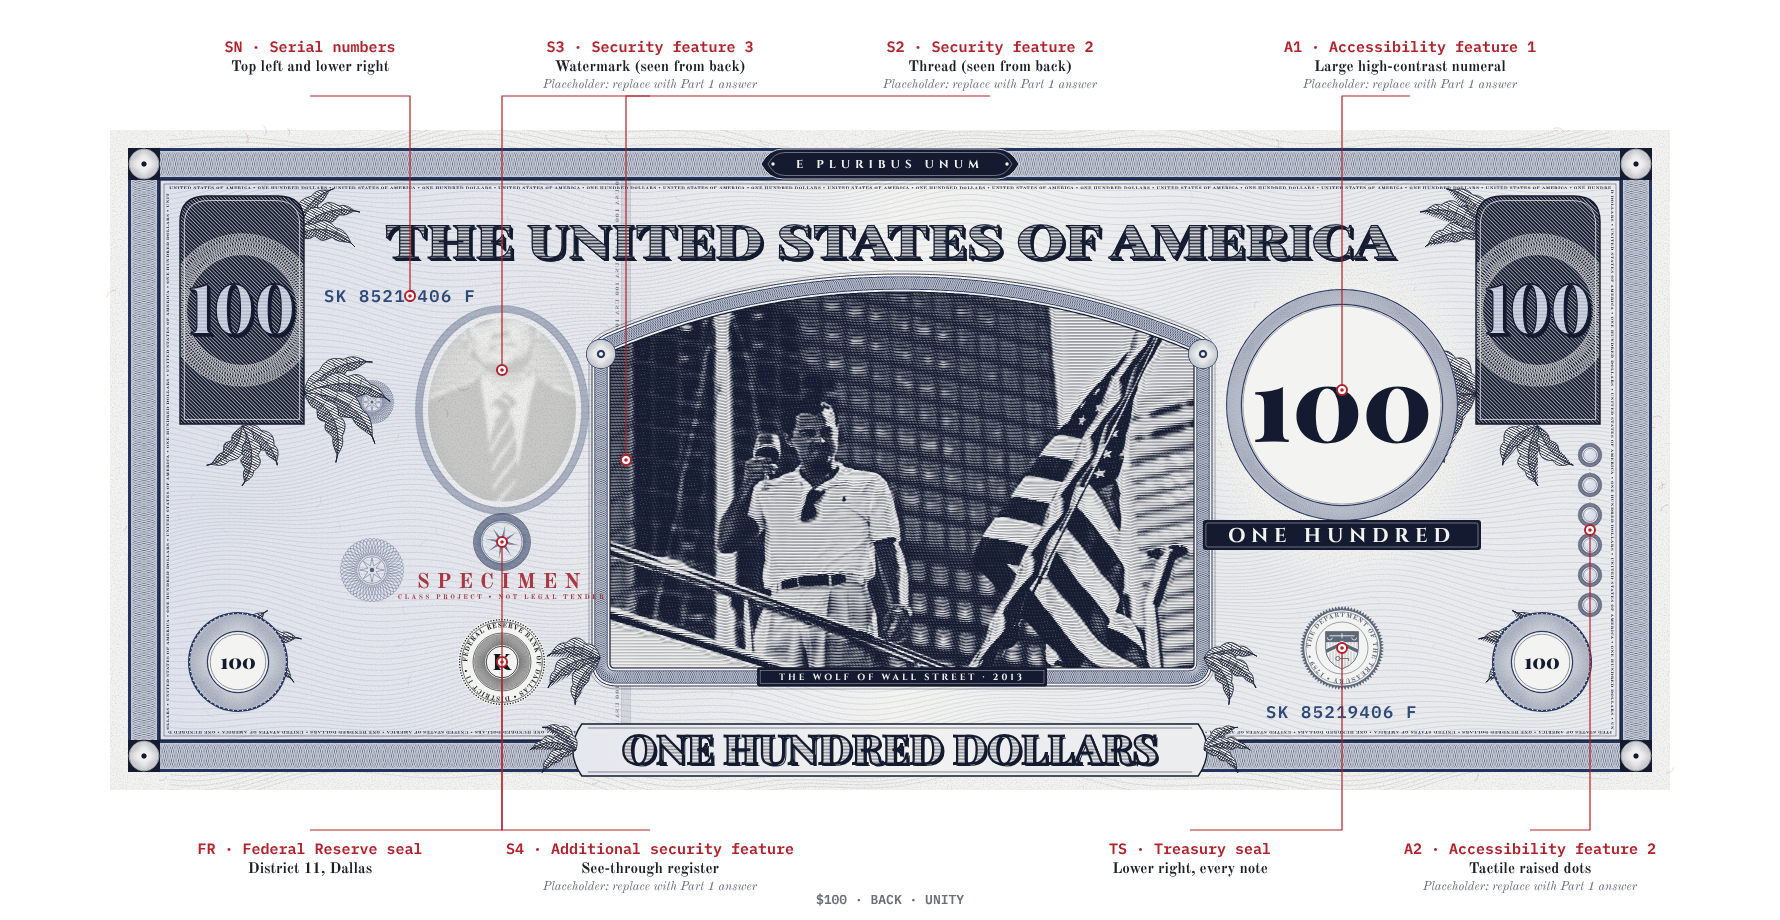
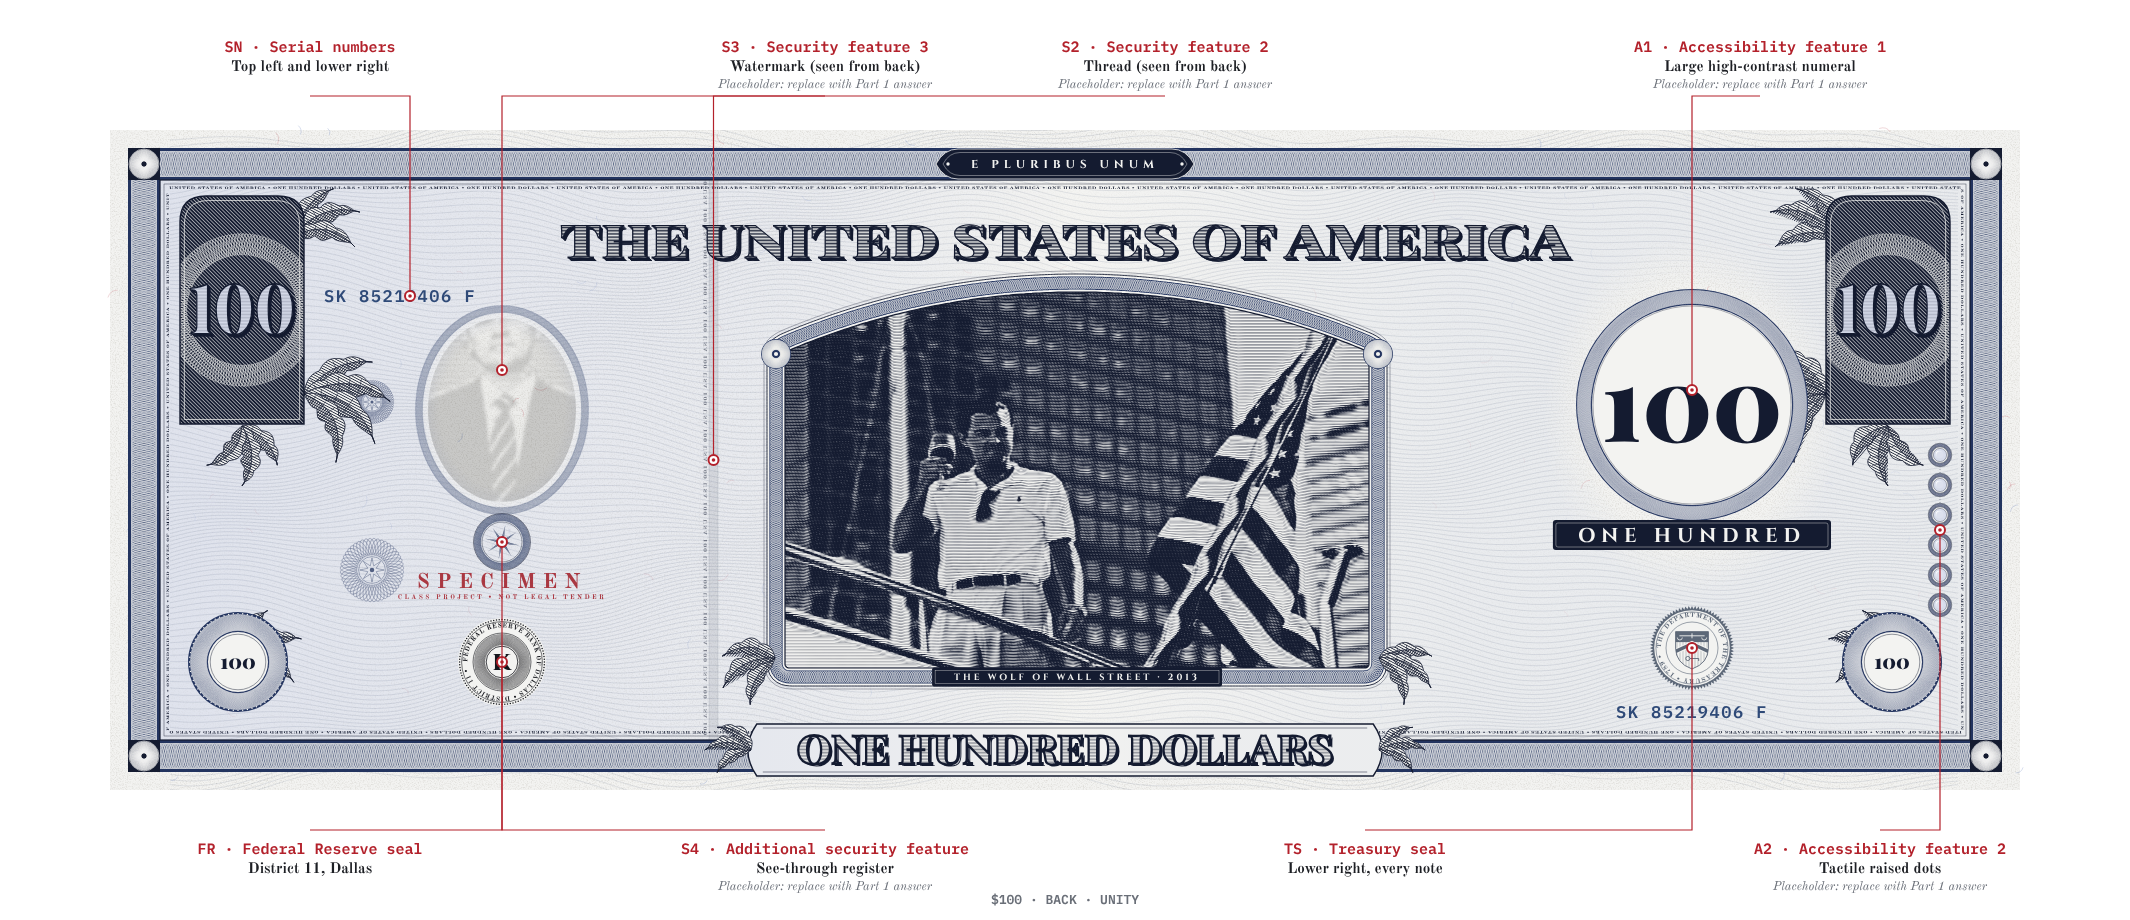
Vary note length by denomination: 156 mm for $1 up to 191 mm for $100 in 7 mm steps
Claude-Session: https://claude.ai/code/session_015KBLhp8b1QN2JqUJfMzhqz

diff --git a/generator/design/notes.js b/generator/design/notes.js
@@ -44,63 +44,67 @@ const G = {
   head: 128,
 };
 const mx = x => W - x;
+// Lengths follow the Australian scheme cited in Part 1: 156 mm for $1, then +7 mm per step (191 mm for $100).
+const ORDER = [1, 5, 10, 20, 50, 100];
+const noteWidth = v => BASE_W + 70 * ORDER.indexOf(v);
+// Extra length is shared out between the open spaces: centre items move by half of it, right-hand items by all of it.
+const shift = (k, inner) => k ? `<g transform="translate(${f(k)} 0)">${inner}</g>` : inner;
+const frontThread = n => n.thread + (W - BASE_W) * (n.thread < 780 ? .25 : .75);
 const svgOpen = () => `<svg xmlns="http://www.w3.org/2000/svg" viewBox="0 0 ${W} ${H}" width="${W}" height="${H}">`;
 function headline(n, id) { return slabText(n, id, "THE UNITED STATES OF AMERICA", W / 2, G.head, 46, 1010, { depth: 3 }); }
 
 function front(n, img, memImg) {
-  const id = "f" + n.v, s = String(n.v);
+  const id = "f" + n.v, s = String(n.v), d = W - BASE_W;
   let o = svgOpen() + defs(n, id);
   o += paperLayer(n, id);
-  o += backgroundLayer(n, id, [{ type: "ellipse", ...G.wm }]);
-  o += securityThread(n, n.thread, false);
+  o += backgroundLayer(n, id, [{ type: "ellipse", ...G.wm, cx: G.wm.cx + d }]);
+  o += securityThread(n, frontThread(n), false);
   o += border(n, id, "FEDERAL RESERVE NOTE", null);
   o += headline(n, id);
   o += plainText("THIS NOTE IS LEGAL TENDER", G.mem.cx, 162, `700 9px ${FONT.small}`, n.plate, { ls: 1.8 });
   o += plainText("FOR ALL DEBTS, PUBLIC AND PRIVATE", G.mem.cx, 174, `700 9px ${FONT.small}`, n.plate, { ls: 1.8 });
   o += memorial(n, id, G.mem.cx, G.mem.cy, G.mem.r, memImg);
-  o += portraitOval(n, id, G.oval.cx, G.oval.cy, G.oval.rx, G.oval.ry, img, n.front.caption);
-  o += plainText("SERIES", 1036, 506, `700 8px ${FONT.small}`, n.plate, { ls: 1.5 }) + plainText("2026", 1036, 517, `700 10px ${FONT.small}`, n.plate, { ls: 1.5 });
-  o += signature(n, G.mem.cx, 518, ...SIGS[0]) + signature(n, G.wm.cx, 518, ...SIGS[1]);
+  o += shift(d / 2, portraitOval(n, id, G.oval.cx, G.oval.cy, G.oval.rx, G.oval.ry, img, n.front.caption));
+  o += signature(n, G.mem.cx, 518, ...SIGS[0]);
+  o += shift(d, plainText("SERIES", 1036, 506, `700 8px ${FONT.small}`, n.plate, { ls: 1.5 }) + plainText("2026", 1036, 517, `700 10px ${FONT.small}`, n.plate, { ls: 1.5 }) + signature(n, G.wm.cx, 518, ...SIGS[1]));
   o += tactileStrip(n, id, 80, 330, 470);
-  o += watermarkSurround(n, G.wm.cx, G.wm.cy, G.wm.rx, G.wm.ry);
-  o += watermarkWindow(n, id, G.wm.cx, G.wm.cy, G.wm.rx, G.wm.ry, img, false);
-  o += register(n, G.reg.cx, G.reg.cy, G.reg.r, false);
+  o += shift(d, watermarkSurround(n, G.wm.cx, G.wm.cy, G.wm.rx, G.wm.ry) + watermarkWindow(n, id, G.wm.cx, G.wm.cy, G.wm.rx, G.wm.ry, img, false) + register(n, G.reg.cx, G.reg.cy, G.reg.r, false));
   o += plainText(n.check, 214, 210, `700 11px ${FONT.small}`, n.plate, { anchor: "start" });
-  o += plainText(n.plateNo, 1346, 210, `700 11px ${FONT.small}`, n.plate, { anchor: "end" });
+  o += shift(d, plainText(n.plateNo, 1346, 210, `700 11px ${FONT.small}`, n.plate, { anchor: "end" }));
   o += tallCounter(n, id, 70, 66, 124, 228, false) + tallCounter(n, id, W - 194, 66, 124, 228, true);
   o += roundCounter(n, id, 128, H - 128, 50, false);
-  o += fillers(n, [[562, 232, 34], [998, 232, 34], [1318, 470, 46], [272, 560, 18], [998, 470, 30], [562, 470, 30]]);
-  o += oviNumeral(n, id, 1488, 600, s.length === 3 ? 92 : 118);
+  o += fillers(n, [[272, 560, 18]]) + shift(d / 4, fillers(n, [[562, 232, 34], [562, 470, 30]]));
+  o += shift(d * .75, fillers(n, [[998, 232, 34], [998, 470, 30]])) + shift(d, fillers(n, [[1318, 470, 46]]));
+  o += shift(d, oviNumeral(n, id, 1488, 600, s.length === 3 ? 92 : 118));
   o += banner(n, id, n.words);
-  o += specimen(n, G.wm.cx, 576);
+  o += shift(d, specimen(n, G.wm.cx, 576));
   return o + "</svg>";
 }
 
 function back(n, img, frontImg, memImg) {
-  const id = "b" + n.v, s = String(n.v);
+  const id = "b" + n.v, s = String(n.v), d = W - BASE_W;
   const v = G.vig;
   const panel = { x: 1132, y: 150, w: 200, h: 290 };
-  const wmx = mx(G.wm.cx);
+  const wmx = BASE_W - G.wm.cx;   // the front's watermark (moved right by d) lands here, seen through the paper
   let o = svgOpen() + defs(n, id);
   o += paperLayer(n, id);
-  o += backgroundLayer(n, id, [{ type: "ellipse", ...G.wm, cx: wmx }, { type: "rect", x: panel.x - 20, y: panel.y - 10, w: panel.w + 40, h: panel.h }]);
-  o += securityThread(n, mx(n.thread), true);
+  o += backgroundLayer(n, id, [{ type: "ellipse", ...G.wm, cx: wmx }, { type: "rect", x: panel.x - 20 + d, y: panel.y - 10, w: panel.w + 40, h: panel.h }]);
+  o += securityThread(n, mx(frontThread(n)), true);
   o += border(n, id, "E PLURIBUS UNUM", null);
   o += headline(n, id);
-  o += vignetteFrame(n, id, v, img, n.back.caption, n.back.overlay ? n.back.overlay(n, v) : "");
-  o += spray(n, id, [v.x0 - 10, v.y1 - 10], 150, 60, 3, 32, 12, true) + spray(n, id, [v.x1 + 10, v.y1 - 10], 30, 60, 3, 32, 12);
-  o += knot(n, v.x0 - 9, v.ys + 2, 15) + knot(n, v.x1 + 9, v.ys + 2, 15);
+  o += shift(d / 2, vignetteFrame(n, id, v, img, n.back.caption, n.back.overlay ? n.back.overlay(n, v) : "")
+    + spray(n, id, [v.x0 - 10, v.y1 - 10], 150, 60, 3, 32, 12, true) + spray(n, id, [v.x1 + 10, v.y1 - 10], 30, 60, 3, 32, 12)
+    + knot(n, v.x0 - 9, v.ys + 2, 15) + knot(n, v.x1 + 9, v.ys + 2, 15));
   o += watermarkSurround(n, wmx, G.wm.cy, G.wm.rx, G.wm.ry);
   o += watermarkWindow(n, id, wmx, G.wm.cy, G.wm.rx, G.wm.ry, frontImg, true);
   o += register(n, wmx, G.reg.cy, G.reg.r, true);
   o += fillers(n, [[262, 440, 32], [262, 272, 22], [1232, 590, 0]].filter(p => p[2]));
   o += fedSeal(n, id, wmx, 532, 44);
   o += tallCounter(n, id, 70, 66, 124, 228, false) + tallCounter(n, id, W - 194, 66, 124, 228, true);
-  o += numeralPanel(n, id, panel, s, n.word1);
-  o += treasurySeal(n, id, panel.x + panel.w / 2, 518, 42);
+  o += shift(d, numeralPanel(n, id, panel, s, n.word1) + treasurySeal(n, id, panel.x + panel.w / 2, 518, 42)
+    + plainText(n.serial, panel.x + panel.w / 2, 588, `600 17px ${FONT.mono}`, n.serialInk || n.secondary, { ls: 1.5 }));
   o += tactileStrip(n, id, mx(80), 330, 470);
   o += plainText(n.serial, 214, 172, `600 17px ${FONT.mono}`, n.serialInk || n.secondary, { anchor: "start", ls: 1.5 });
-  o += plainText(n.serial, panel.x + panel.w / 2, 588, `600 17px ${FONT.mono}`, n.serialInk || n.secondary, { ls: 1.5 });
   o += roundCounter(n, id, 128, H - 128, 50, false) + roundCounter(n, id, W - 128, H - 128, 50, true);
   o += banner(n, id, n.words);
   o += specimen(n, wmx, 458);
@@ -113,7 +117,7 @@ const FEATURES = {
   front: n => [
     { code: "A1", title: "Accessibility feature 1", name: "Large high-contrast numerals", at: [132, 180], label: [200, "top"] },
     { code: "\u2605", title: "Memorial", name: "Twin Towers & One WTC", at: [392, 300], label: [540, "top"], fixed: true },
-    { code: "S2", title: "Security feature 2", name: "Security thread", at: [n.thread, 330], label: [880, "top"] },
+    { code: "S2", title: "Security feature 2", name: "Security thread", at: [frontThread(n), 330], label: [880, "top"], exact: true },
     { code: "S3", title: "Security feature 3", name: "Watermark window", at: [1168, 240], label: [1360, "top"] },
     { code: "A2", title: "Accessibility feature 2", name: "Tactile raised dots", at: [80, 400], label: [200, "bottom"] },
     { code: "\u2014", title: "Marking", name: "SPECIMEN \u00b7 class project", at: [1168, 576], label: [1000, "bottom"], fixed: true },
@@ -122,7 +126,7 @@ const FEATURES = {
   back: n => [
     { code: "SN", title: "Serial numbers", name: "Top left and lower right", at: [300, 166], label: [200, "top"], fixed: true },
     { code: "S3", title: "Security feature 3", name: "Watermark (seen from back)", at: [392, 240], label: [540, "top"] },
-    { code: "S2", title: "Security feature 2", name: "Thread (seen from back)", at: [mx(n.thread), 330], label: [880, "top"] },
+    { code: "S2", title: "Security feature 2", name: "Thread (seen from back)", at: [mx(frontThread(n)), 330], label: [880, "top"], exact: true },
     { code: "A1", title: "Accessibility feature 1", name: "Large high-contrast numeral", at: [1232, 260], label: [1300, "top"] },
     { code: "FR", title: "Federal Reserve seal", name: `District ${n.district}, ${n.city.toLowerCase().replace(/\b\w/g, c => c.toUpperCase())}`, at: [392, 532], label: [200, "bottom"], fixed: true },
     { code: "S4", title: "Additional security feature", name: "See-through register", at: [392, 412], label: [540, "bottom"] },
@@ -136,7 +140,9 @@ function annotated(n, side, noteSvg) {
   let o = `<svg xmlns="http://www.w3.org/2000/svg" viewBox="0 0 ${WW} ${HH}" width="${WW}" height="${HH}">
     <rect width="${WW}" height="${HH}" fill="#ffffff"/>
     <g transform="translate(${M.x} ${M.y})">${inner}</g>`;
-  for (const ft of FEATURES[side](n)) {
+  const d = W - BASE_W, X = x => x < 470 ? x : x > 1090 ? x + d : x + d / 2;
+  for (const raw of FEATURES[side](n)) {
+    const ft = { ...raw, at: [raw.exact ? raw.at[0] : X(raw.at[0]), raw.at[1]], label: [X(raw.label[0]), raw.label[1]] };
     const top = ft.label[1] === "top";
     const [ax, ay] = [ft.at[0] + M.x, ft.at[1] + M.y], lx = ft.label[0] + M.x, ly = top ? 52 : HH - 66;
     const ey = top ? ly + 44 : ly - 24;

diff --git a/generator/note.html b/generator/note.html
@@ -18,6 +18,7 @@ window.compose = async (v, side, imgs, annotate) => {
   await document.fonts.ready;
   for (const u of Object.values(imgs)) { const im = new Image(); im.src = u; await im.decode(); }
   const n = DENOMS[v];
+  W = noteWidth(v);
   const svg = side === "front" ? front(n, imgs.front, imgs.memorial) : back(n, imgs.back, imgs.front, imgs.memorial);
   document.getElementById("stage").innerHTML = annotate ? annotated(n, side, svg) : svg;
   await new Promise(r => setTimeout(r, 400));

diff --git a/generator/design/parts.js b/generator/design/parts.js
@@ -1,5 +1,7 @@
 /* Note components. Each takes the denomination config `n` (colours, words) and returns SVG markup. */
-const W = 1560, H = 660;
+// Note size in units of 0.1 mm: every note is 66 mm tall; length grows 7 mm per denomination (set per note).
+const BASE_W = 1560, H = 660;
+let W = BASE_W;
 const esc = s => s.replace(/&/g, "&amp;").replace(/</g, "&lt;");
 const FONT = {
   caps: "Cinzel, serif",
